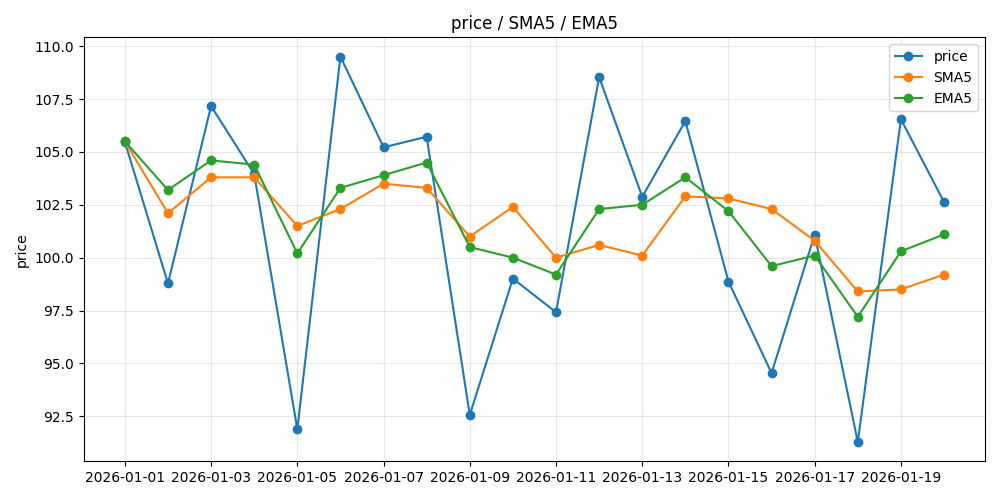
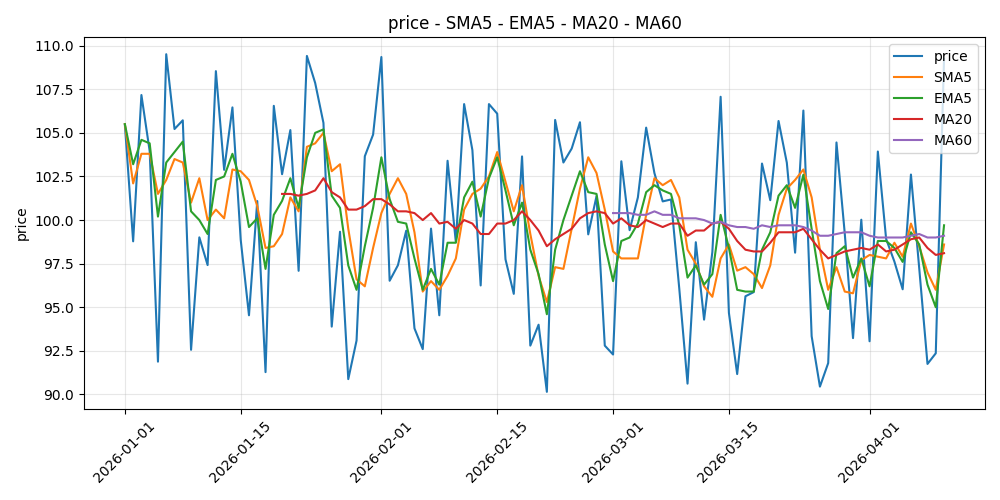
day 5: 加 MA20/MA60（不写 min_periods），笔记新增 9.4

diff --git a/python_study/ma_test.py b/python_study/ma_test.py
@@ -6,11 +6,11 @@ from pathlib import Path
 # 第一部分：算指标 —— 这一段每一行都要懂
 # ================================================================
 
-# 1. 造 20 个价格（固定种子，保证每次运行结果一样）
+# 1. 造 100 个价格（固定种子，保证每次运行结果一样）
 rng = np.random.default_rng(seed=42)
 prices = pd.Series(
-    rng.uniform(90, 110, size=20).round(2),          # 90~110 之间取 20 个数
-    index=pd.date_range("2026-01-01", periods=20, freq="D"),
+    rng.uniform(90, 110, size=100).round(2),         # 90~110 之间取 100 个数
+    index=pd.date_range("2026-01-01", periods=100, freq="D"),
     name="price",
 )
 
@@ -22,11 +22,22 @@ sma5 = prices.rolling(window=5, min_periods=1).mean().round(1)
 #    adjust=False = 用递推式 EMA(t) = α·P(t) + (1-α)·EMA(t-1)，其中 α = 2/(5+1)
 ema5 = prices.ewm(span=5, adjust=False).mean().round(1)
 
-# 4. 打印对比表
-df = pd.DataFrame({"price": prices, "SMA5": sma5, "EMA5": ema5})
+# 4. MA20 / MA60：同一个 rolling，但故意不写 min_periods
+#    不写 = 用默认值 min_periods=window → 前 19 / 59 行是 NaN。
+#    为什么和上面的 SMA5 不一样：窗口越长，"凑合着算"离真值越远。
+#    100 个点里 MA60 只有后 41 个是真值，前 59 个要是也硬算，
+#    那条线会被自己误读成"60 日均线"，其实只是"前 N 天的平均"。
+sma20 = prices.rolling(window=20).mean().round(1)
+sma60 = prices.rolling(window=60).mean().round(1)
+
+# 5. 打印对比表
+df = pd.DataFrame({"price": prices, "SMA5": sma5, "EMA5": ema5, "MA20": sma20, "MA60": sma60})
+#    100 行超过了 pandas 默认的显示上限（60 行），不设这一句，中间会被折叠成 "..."。
+#    设成 None = 不限行数，全打出来。
+pd.set_option("display.max_rows", None)
 print(df)
 
-# 5. 手写循环再算一遍 EMA，和 pandas 对拍 —— 证明自己真懂 α 在干什么
+# 6. 手写循环再算一遍 EMA，和 pandas 对拍 —— 证明自己真懂 α 在干什么
 #    注意：每步都拿「没取整」的值往下递推，只在最后 round。
 #          每步都 round 的话，误差会顺着递推式滚雪球，就和 pandas 对不上了。
 alpha = 2 / (5 + 1)
@@ -43,14 +54,17 @@ print("两种算法完全一致:", ema_manual.equals(ema5))
 
 fig, ax = plt.subplots(figsize=(10, 5))       # 画布大小，10×5 英寸
 
-ax.plot(prices, label="price", marker="o")    # ← 核心：把三条线画上去
-ax.plot(sma5, label="SMA5", marker="o")
-ax.plot(ema5, label="EMA5", marker="o")
+ax.plot(prices, label="price")                # ← 核心：把五条线画上去
+ax.plot(sma5, label="SMA5")                   #    100 个点不画 marker，不然圆圈糊成一片
+ax.plot(ema5, label="EMA5")
+ax.plot(sma20, label="MA20")
+ax.plot(sma60, label="MA60")
 
 ax.legend()                     # 图例 —— 不加就分不清哪条是哪条，别删
-ax.set_title("price / SMA5 / EMA5")
+ax.set_title("price - SMA5 - EMA5 - MA20 - MA60")
 ax.set_ylabel("price")
 ax.grid(alpha=0.3)              # 淡网格，纯粹为了好看，删掉不影响结果
+ax.tick_params(axis="x", rotation=45)   # 100 个日期横着排会挤，转 45 度纯属好看
 
 fig.tight_layout()              # 别让标题被裁掉
 

diff --git a/知识库/01_核心概念/移动平均线.md b/知识库/01_核心概念/移动平均线.md
@@ -1,7 +1,7 @@
 # 移动平均线 (Moving Average, MA)
 
 > **配套代码**：`python_study\ma_test.py`
-> **覆盖**：Day 1 – Day 4
+> **覆盖**：Day 1 – Day 5
 > **本文档不用 LaTeX**：公式最终要写成代码，写成 `\frac{}{}` 只会多绕一道弯，
 > 还逼你去装渲染插件。能用眼睛读懂、能直接抄进代码，才算好笔记。
 
@@ -229,11 +229,11 @@ from pathlib import Path
 # 第一部分：算指标 —— 这一段每一行都要懂
 # ================================================================
 
-# 1. 造 20 个价格（固定种子，保证每次运行结果一样）
+# 1. 造 100 个价格（固定种子，保证每次运行结果一样）
 rng = np.random.default_rng(seed=42)
 prices = pd.Series(
-    rng.uniform(90, 110, size=20).round(2),          # 90~110 之间取 20 个数
-    index=pd.date_range("2026-01-01", periods=20, freq="D"),
+    rng.uniform(90, 110, size=100).round(2),         # 90~110 之间取 100 个数
+    index=pd.date_range("2026-01-01", periods=100, freq="D"),
     name="price",
 )
 
@@ -245,11 +245,22 @@ sma5 = prices.rolling(window=5, min_periods=1).mean().round(1)
 #    adjust=False = 用递推式 EMA(t) = α·P(t) + (1-α)·EMA(t-1)，其中 α = 2/(5+1)
 ema5 = prices.ewm(span=5, adjust=False).mean().round(1)
 
-# 4. 打印对比表
-df = pd.DataFrame({"price": prices, "SMA5": sma5, "EMA5": ema5})
+# 4. MA20 / MA60：同一个 rolling，但故意不写 min_periods
+#    不写 = 用默认值 min_periods=window → 前 19 / 59 行是 NaN。
+#    为什么和上面的 SMA5 不一样：窗口越长，"凑合着算"离真值越远。
+#    100 个点里 MA60 只有后 41 个是真值，前 59 个要是也硬算，
+#    那条线会被自己误读成"60 日均线"，其实只是"前 N 天的平均"。
+sma20 = prices.rolling(window=20).mean().round(1)
+sma60 = prices.rolling(window=60).mean().round(1)
+
+# 5. 打印对比表
+df = pd.DataFrame({"price": prices, "SMA5": sma5, "EMA5": ema5, "MA20": sma20, "MA60": sma60})
+#    100 行超过了 pandas 默认的显示上限（60 行），不设这一句，中间会被折叠成 "..."。
+#    设成 None = 不限行数，全打出来。
+pd.set_option("display.max_rows", None)
 print(df)
 
-# 5. 手写循环再算一遍 EMA，和 pandas 对拍 —— 证明自己真懂 α 在干什么
+# 6. 手写循环再算一遍 EMA，和 pandas 对拍 —— 证明自己真懂 α 在干什么
 #    注意：每步都拿「没取整」的值往下递推，只在最后 round。
 #          每步都 round 的话，误差会顺着递推式滚雪球，就和 pandas 对不上了。
 alpha = 2 / (5 + 1)
@@ -266,14 +277,17 @@ print("两种算法完全一致:", ema_manual.equals(ema5))
 
 fig, ax = plt.subplots(figsize=(10, 5))       # 画布大小，10×5 英寸
 
-ax.plot(prices, label="price", marker="o")    # ← 核心：把三条线画上去
-ax.plot(sma5, label="SMA5", marker="o")
-ax.plot(ema5, label="EMA5", marker="o")
+ax.plot(prices, label="price")                # ← 核心：把五条线画上去
+ax.plot(sma5, label="SMA5")                   #    100 个点不画 marker，不然圆圈糊成一片
+ax.plot(ema5, label="EMA5")
+ax.plot(sma20, label="MA20")
+ax.plot(sma60, label="MA60")
 
 ax.legend()                     # 图例 —— 不加就分不清哪条是哪条，别删
-ax.set_title("price / SMA5 / EMA5")
+ax.set_title("price - SMA5 - EMA5 - MA20 - MA60")
 ax.set_ylabel("price")
 ax.grid(alpha=0.3)              # 淡网格，纯粹为了好看，删掉不影响结果
+ax.tick_params(axis="x", rotation=45)   # 100 个日期横着排会挤，转 45 度纯属好看
 
 fig.tight_layout()              # 别让标题被裁掉
 
@@ -281,47 +295,61 @@ fig.savefig(Path(__file__).with_name("ma.png"))
 plt.show()                      # 弹窗显示
 ```
 
-### 9.2 运行输出
+### 9.2 运行输出（截取）
 
 ```
-             price   SMA5   EMA5
-2026-01-01  105.48  105.5  105.5
-2026-01-02   98.78  102.1  103.2
-2026-01-03  107.17  103.8  104.6
-2026-01-04  103.95  103.8  104.4
-2026-01-05   91.88  101.5  100.2
-2026-01-06  109.51  102.3  103.3
-2026-01-07  105.22  103.5  103.9
-2026-01-08  105.72  103.3  104.5
-2026-01-09   92.56  101.0  100.5
-2026-01-10   99.01  102.4  100.0
-2026-01-11   97.42  100.0   99.2
-2026-01-12  108.54  100.6  102.3
-2026-01-13  102.88  100.1  102.5
-2026-01-14  106.46  102.9  103.8
-2026-01-15   98.87  102.8  102.2
-2026-01-16   94.54  102.3   99.6
-2026-01-17  101.09  100.8  100.1
-2026-01-18   91.28   98.4   97.2
-2026-01-19  106.55   98.5  100.3
-2026-01-20  102.63   99.2  101.1
-�����㷨��ȫһ��: True
+             price   SMA5   EMA5   MA20   MA60
+2026-01-01  105.48  105.5  105.5    NaN    NaN
+2026-01-02   98.78  102.1  103.2    NaN    NaN
+2026-01-03  107.17  103.8  104.6    NaN    NaN
+2026-01-04  103.95  103.8  104.4    NaN    NaN
+2026-01-05   91.88  101.5  100.2    NaN    NaN
+2026-01-06  109.51  102.3  103.3    NaN    NaN
+2026-01-07  105.22  103.5  103.9    NaN    NaN
+2026-01-08  105.72  103.3  104.5    NaN    NaN
+2026-01-09   92.56  101.0  100.5    NaN    NaN
+2026-01-10   99.01  102.4  100.0    NaN    NaN
+2026-01-11   97.42  100.0   99.2    NaN    NaN
+2026-01-12  108.54  100.6  102.3    NaN    NaN
+2026-01-13  102.88  100.1  102.5    NaN    NaN
+2026-01-14  106.46  102.9  103.8    NaN    NaN
+2026-01-15   98.87  102.8  102.2    NaN    NaN
+2026-01-16   94.54  102.3   99.6    NaN    NaN
+2026-01-17  101.09  100.8  100.1    NaN    NaN
+2026-01-18   91.28   98.4   97.2    NaN    NaN
+2026-01-19  106.55   98.5  100.3    NaN    NaN
+2026-01-20  102.63   99.2  101.1  101.5    NaN
+2026-01-21  105.16  101.3  102.4  101.5    NaN
+2026-01-22   97.09  100.5  100.7  101.4    NaN
+2026-01-23  109.41  104.2  103.6  101.5    NaN
+2026-01-24  107.86  104.4  105.0  101.7    NaN
+... （中间 100 行省略，脚本会把整张表打出来）
+2026-04-01   93.05   98.0   96.2   98.3   99.1
+2026-04-02  103.93   97.9   98.8   98.6   99.0
+2026-04-03   98.92   97.8   98.8   98.2   99.0
+2026-04-04   97.62   98.7   98.4   98.3   99.0
+2026-04-05   96.03   97.9   97.6   98.6   99.0
+2026-04-06  102.61   99.8   99.3   98.9   99.1
+2026-04-07   97.24   98.5   98.6   99.0   99.2
+2026-04-08   91.75   97.0   96.3   98.4   99.0
+2026-04-09   92.36   96.0   95.0   98.0   99.0
+2026-04-10  109.24   98.6   99.7   98.1   99.1
+两种算法完全一致: True
 ```
 
-> **怎么读这段输出**：前 21 行是 `print(df)` 打出的对比表（price / SMA5 / EMA5 三列），
-> 最后一行 `两种算法完全一致: True` 是手写循环和 pandas 对拍的结果。
-> 调试时先想清楚"我要看哪几个数"，别一口气全打出来，输出才看得清。
+> **这是截取，不是全部。** 脚本把 100 行表全打出来了，这里只留头和尾。
+> 完整输出自己跑一遍就有 —— 全贴在笔记里不好读，而且每改一次代码就得重贴一次。
+> 看输出的正确姿势：先想清楚"我要看哪几个数"，再看。
 
-> **画图部分**：核心只有 3 行 `ax.plot(...)`。图例 `ax.legend()` 不能删（删了就分不清哪条是哪条）；
-> 网格 `ax.grid()` 纯属好看，删了不影响结果。图会存成脚本所在目录下的 `ma.png`（代码里的 `Path(__file__)` 保证不管从哪运行都落在脚本旁边）。
+> **画图部分**：核心只有 5 行 `ax.plot(...)`。`ax.legend()` 不能删（删了分不清哪条是哪条）；
+> `ax.grid()` 和 x 轴旋转纯属好看，删了不影响结果。图存成脚本所在目录下的 `ma.png`
+>（代码里的 `Path(__file__)` 保证不管从哪运行都落在脚本旁边）。
 
 ---
 
-### 9.3 从图上看到了什么（Day 4 验收）
+### 9.3 Day 4 验收：从图上看到了什么（20 天数据）
 
-![价格、SMA5、EMA5 三条线](../../python_study/ma.png)
-
-sma 的波动相对来说比较平稳，看的是近五天的综合趋势，而 ema 的波动较大，因为最近一天价格的影响会更严重。
+sma 的波动相对来说比较平稳，看的是近五天的综合平均价格（而不是趋势），而 ema 的波动较大，因为最近一天价格的影响会更严重。
 但是从另一个方面来说，sma 对最新一天的价格比较迟钝，而 ema 相对而言比较敏感。
 但不管是 ema 还是 sma，都反映了其价格有向下的趋势。
 
@@ -341,11 +369,57 @@ sma 的波动相对来说比较平稳，看的是近五天的综合趋势，而 
 > 第六节用**表格里的数字**证明 EMA 更贴价格，这一节用**图**再确认一遍。
 > 以后再遇到「两条线到底差在哪」，先看数字、再看图，两边都说得通，才算真懂。
 
+> ⚠ 本节的数字对应的是 **20 天**数据（Day 4 的版本）。脚本后来延长到 100 天了，
+> 所以这些数字和现在的图对不上 —— 这是历史记录，不用改，知道就行。
+
 ---
 
+### 9.4 Day 5：更多均线（100 天）
+
+![price - SMA5 - EMA5 - MA20 - MA60](../../python_study/ma.png)
+
+价格从 20 个点延长到 100 个点，再加两条均线：
+
+    sma20 = prices.rolling(window=20).mean()      # 注意：故意不写 min_periods
+    sma60 = prices.rolling(window=60).mean()
+
+**这一节要看的就一件事：周期越长，线越平缓。**
+
+    指标      日变动标准差    有效值个数   首个有效值
+    price          7.220         100       01-01
+    SMA5           1.687         100       01-01
+    EMA5           1.999         100       01-01
+    MA20           0.386          81       01-20
+    MA60           0.110          41       03-01
+
+（日变动标准差 = 相邻两天差值的标准差。数字越小 = 线越平缓。）
+
+    三条读法：
+      1. MA60 (0.110) < MA20 (0.386) < SMA5 (1.687) → 单调下降，「越长越平缓」成立
+      2. 有效值个数 81 / 41：20 点窗口吃掉前 19 个，60 点窗口吃掉前 59 个
+      3. 首个有效值 01-20 / 03-01 正好是第 20 天、第 60 天 → 窗口边界没算错
+
+**为什么 MA20 / MA60 不写 `min_periods=1`**（本节最该记住的）
+
+Day 4 的 SMA5 写了 `min_periods=1`，是为了让 20 个点的数据也能画满图。那时候的副作用只是"前 4 天用了不足 5 个数据"，看着无伤大雅。
+
+但 100 个点里，MA60 只有后 41 个是真值。**前 59 个要是也硬算，那条线会被误读成"60 日均线"，其实它只是"前 N 天的平均"。** 窗口越长，"凑合着算"离真值越远。
+
+> 一句话：`min_periods=1` 是"为了画图好看"的妥协，**不是默认该加的**。
+> 做回测时，任何"凑合算出来"的值都是隐患 —— 它不报错，但它在骗你。
+
+---
 ## 十、我还没搞懂的问题
 
 > 想到什么就写一行，不要现在去查。攒到周末一起解决。
 
 1. Series 的用法还不太熟（`.rolling`、`.mean`、`.round` 这些是 Series 的方法还是 pandas 的？）——先记着，慢慢来。
 2. 算法是理解了，但是要让我自己写出来还是很成问题，慢慢学习理解记忆吧。
+3. 只是读懂了sma和ema的算法，具体的应用还没学到，可以后面再学
+4. 关于
+```python
+#    100 行超过了 pandas 默认的显示上限（60 行），不设这一句，中间会被折叠成 "..."。
+#    设成 None = 不限行数，全打出来。
+pd.set_option("display.max_rows", None)
+```
+这里没看懂，为什么要这样，claude写的，我不清楚，后面再说

diff --git a/学习日志.md b/学习日志.md
@@ -62,6 +62,12 @@
 - **明天唯一要做的一件事**：把价格延长到 100 个点，再加上 MA20、MA60，画在同一张图上
 - **commit**：`c821d1b`（已 push）
 
+### 2026-09-21 · Day 5
+> 今天的任务：画出ma20和ma60还有价格的三条线
+- **做了什么**：在`ma_test.py`中更改代码，去画出ma20和ma60的折线。
+- **卡在哪**：主要是涉及到取消折线标点的问题，如果不取消的话，会让画面糊成一团。另外就是取消minperiod的启用，取消了才能获得真实感知
+- **明天唯一要做的一件事**：把固定价格换成随机游走，生成 500 天，重画均线图
+- **commit**：
 ---
 
 ## 每周复盘
